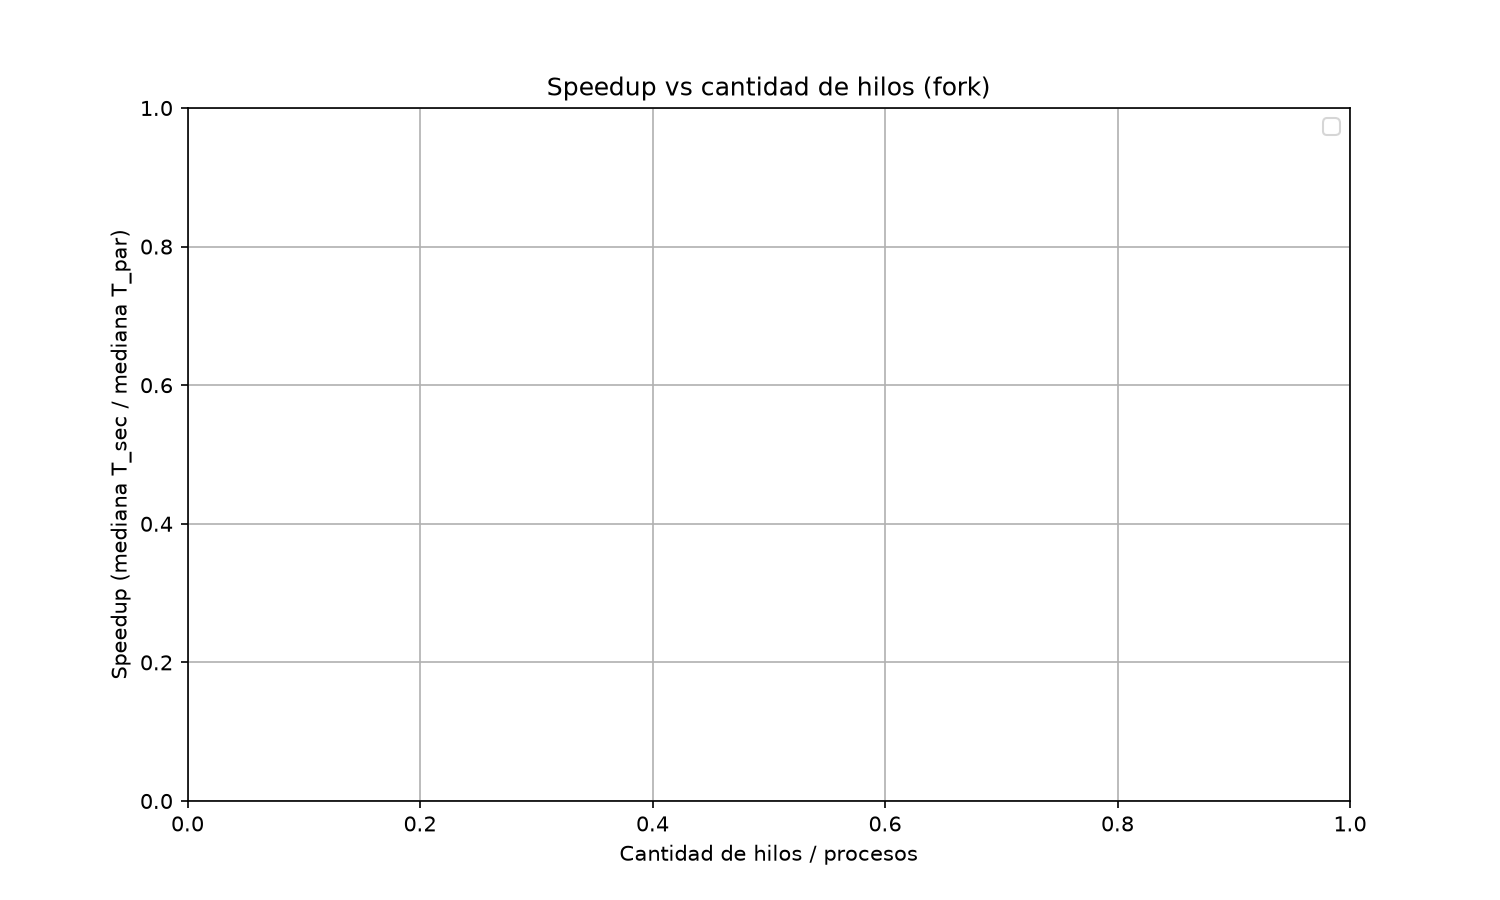
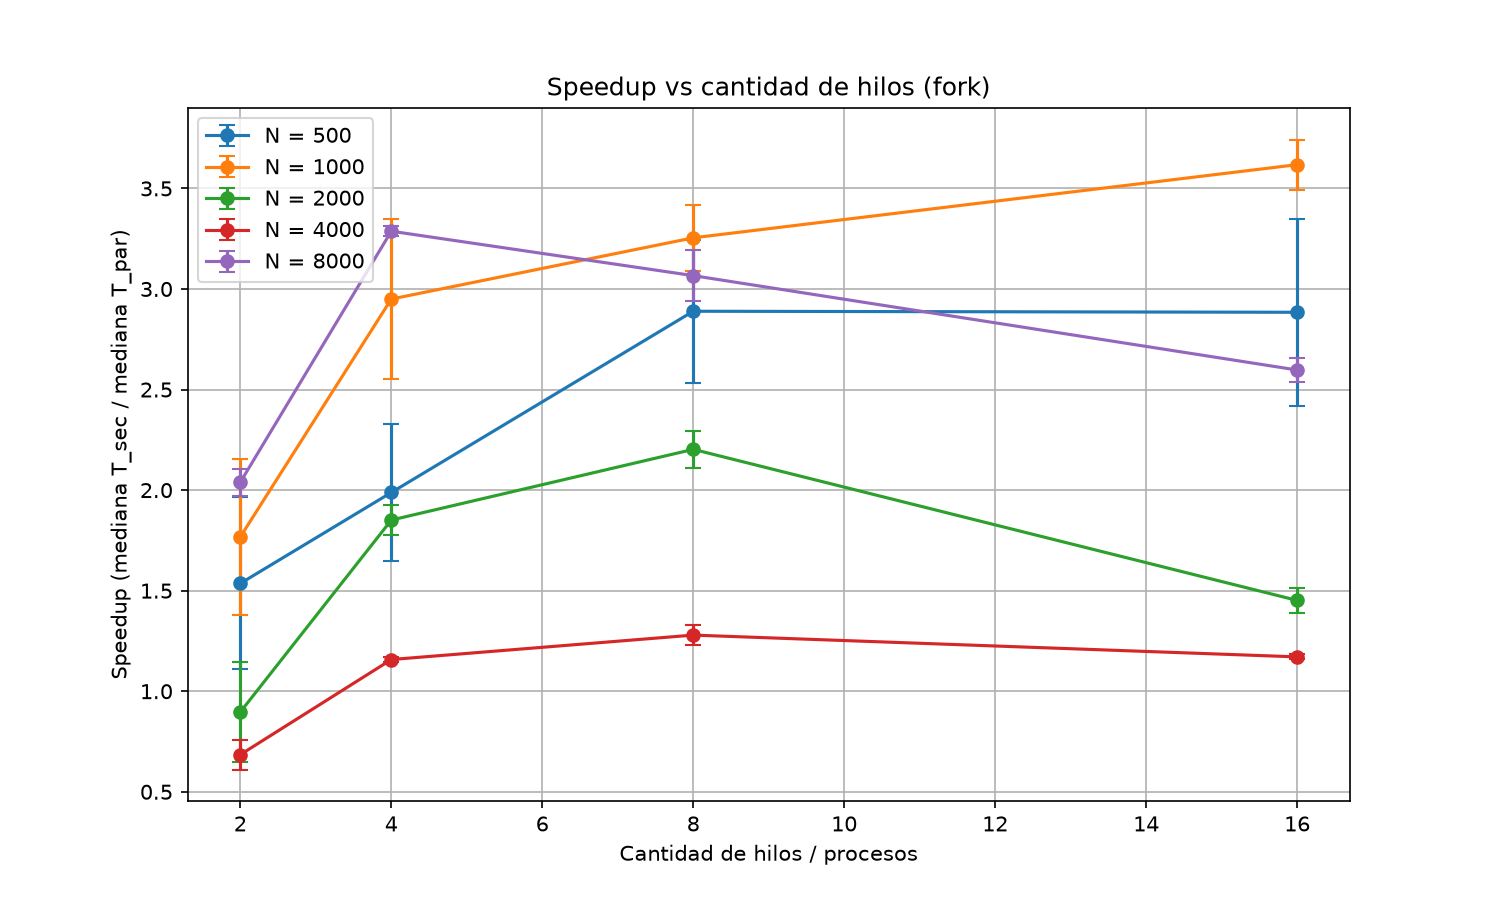
fix(plot): use pthreads T=1 as baseline for fork speedup (fork has no T=1)

diff --git a/experiments/plot.py b/experiments/plot.py
@@ -23,8 +23,7 @@ def cargar(path):
     return {(r['N'], r['threads']): r for r in filas}
 
 
-def speedup_desde(by, n, t):
-    seq = by.get((n, 1))
+def speedup_contra_seq(by, seq, n, t):
     par = by.get((n, t))
     if seq is None or par is None:
         return None
@@ -34,12 +33,13 @@ def speedup_desde(by, n, t):
     return (s, sigma_s)
 
 
-def graficar_speedup_vs_N(by, metodo, path):
+def graficar_speedup_vs_N(by, metodo, seq_dict, path):
     plt.figure(figsize=(10, 6))
     for t in [2, 4, 8, 16]:
         pares = []
         for n in sorted({k[0] for k in by}):
-            r = speedup_desde(by, n, t)
+            seq = seq_dict.get((n, 1))
+            r = speedup_contra_seq(by, seq, n, t)
             if r is not None:
                 pares.append((n, r))
         if not pares:
@@ -58,12 +58,13 @@ def graficar_speedup_vs_N(by, metodo, path):
     print(f'Grafica guardada en {path}')
 
 
-def graficar_speedup_vs_T(by, metodo, path):
+def graficar_speedup_vs_T(by, metodo, seq_dict, path):
     plt.figure(figsize=(10, 6))
     for n in sorted({k[0] for k in by}):
         pares = []
+        seq = seq_dict.get((n, 1))
         for t in [2, 4, 8, 16]:
-            r = speedup_desde(by, n, t)
+            r = speedup_contra_seq(by, seq, n, t)
             if r is not None:
                 pares.append((t, r))
         if not pares:
@@ -82,13 +83,14 @@ def graficar_speedup_vs_T(by, metodo, path):
     print(f'Grafica guardada en {path}')
 
 
-def graficar_comparativa(by_pt, by_fk, path):
+def graficar_comparativa(by_pt, by_fk, seq_dict, path):
     plt.figure(figsize=(10, 6))
     for t in [2, 4, 8, 16]:
         xs, ys_pt, ys_fk = [], [], []
         for n in sorted({k[0] for k in by_pt} & {k[0] for k in by_fk}):
-            pt = speedup_desde(by_pt, n, t)
-            fk = speedup_desde(by_fk, n, t)
+            seq = seq_dict.get((n, 1))
+            pt = speedup_contra_seq(by_pt, seq, n, t)
+            fk = speedup_contra_seq(by_fk, seq, n, t)
             if pt is not None and fk is not None:
                 xs.append(n)
                 ys_pt.append(pt[0])
@@ -109,18 +111,18 @@ def graficar_comparativa(by_pt, by_fk, path):
 
 def main():
     by_pt = cargar(PTHREADS_CSV)
+    by_fk = cargar(FORK_CSV)
 
-    graficar_speedup_vs_N(by_pt, 'pthreads', 'experiments/speedup_vs_N.png')
-    graficar_speedup_vs_T(by_pt, 'pthreads', 'experiments/speedup_vs_T.png')
+    graficar_speedup_vs_N(by_pt, 'pthreads', by_pt, 'experiments/speedup_vs_N.png')
+    graficar_speedup_vs_T(by_pt, 'pthreads', by_pt, 'experiments/speedup_vs_T.png')
 
     import os, shutil
     shutil.copyfile('experiments/speedup_vs_N.png', 'experiments/speedup.png')
 
     if os.path.exists(FORK_CSV):
-        by_fk = cargar(FORK_CSV)
-        graficar_speedup_vs_N(by_fk, 'fork', 'experiments/speedup_vs_N_fork.png')
-        graficar_speedup_vs_T(by_fk, 'fork', 'experiments/speedup_vs_T_fork.png')
-        graficar_comparativa(by_pt, by_fk, 'experiments/speedup_comparativa.png')
+        graficar_speedup_vs_N(by_fk, 'fork', by_pt, 'experiments/speedup_vs_N_fork.png')
+        graficar_speedup_vs_T(by_fk, 'fork', by_pt, 'experiments/speedup_vs_T_fork.png')
+        graficar_comparativa(by_pt, by_fk, by_pt, 'experiments/speedup_comparativa.png')
     else:
         print(f'Aviso: {FORK_CSV} no existe aun; graficas de fork omitidas.')
 
